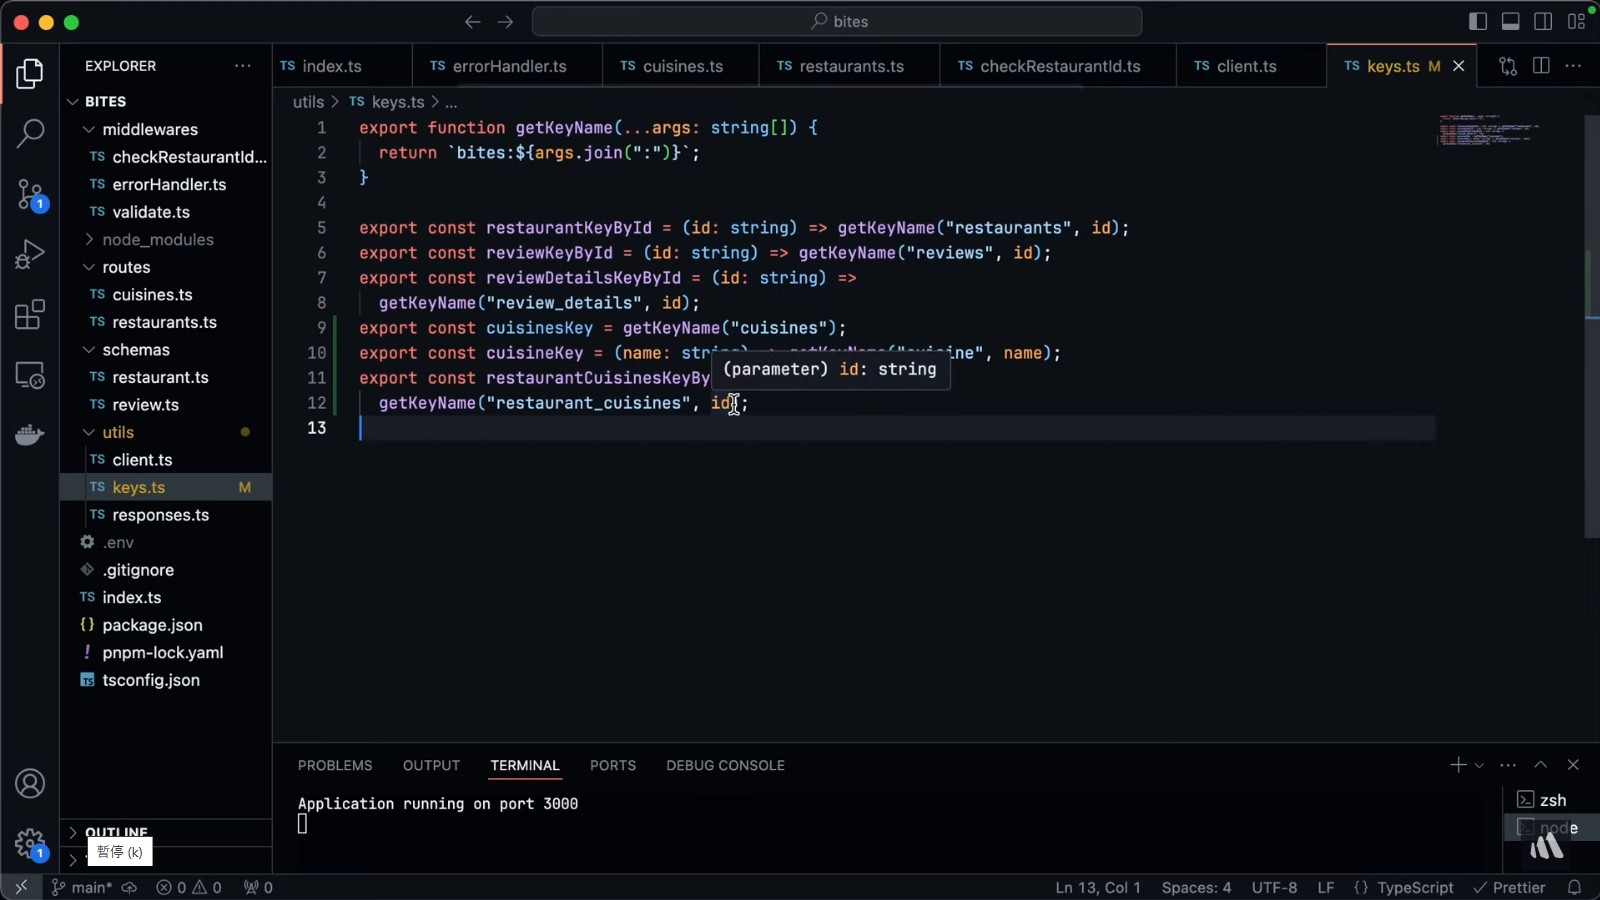
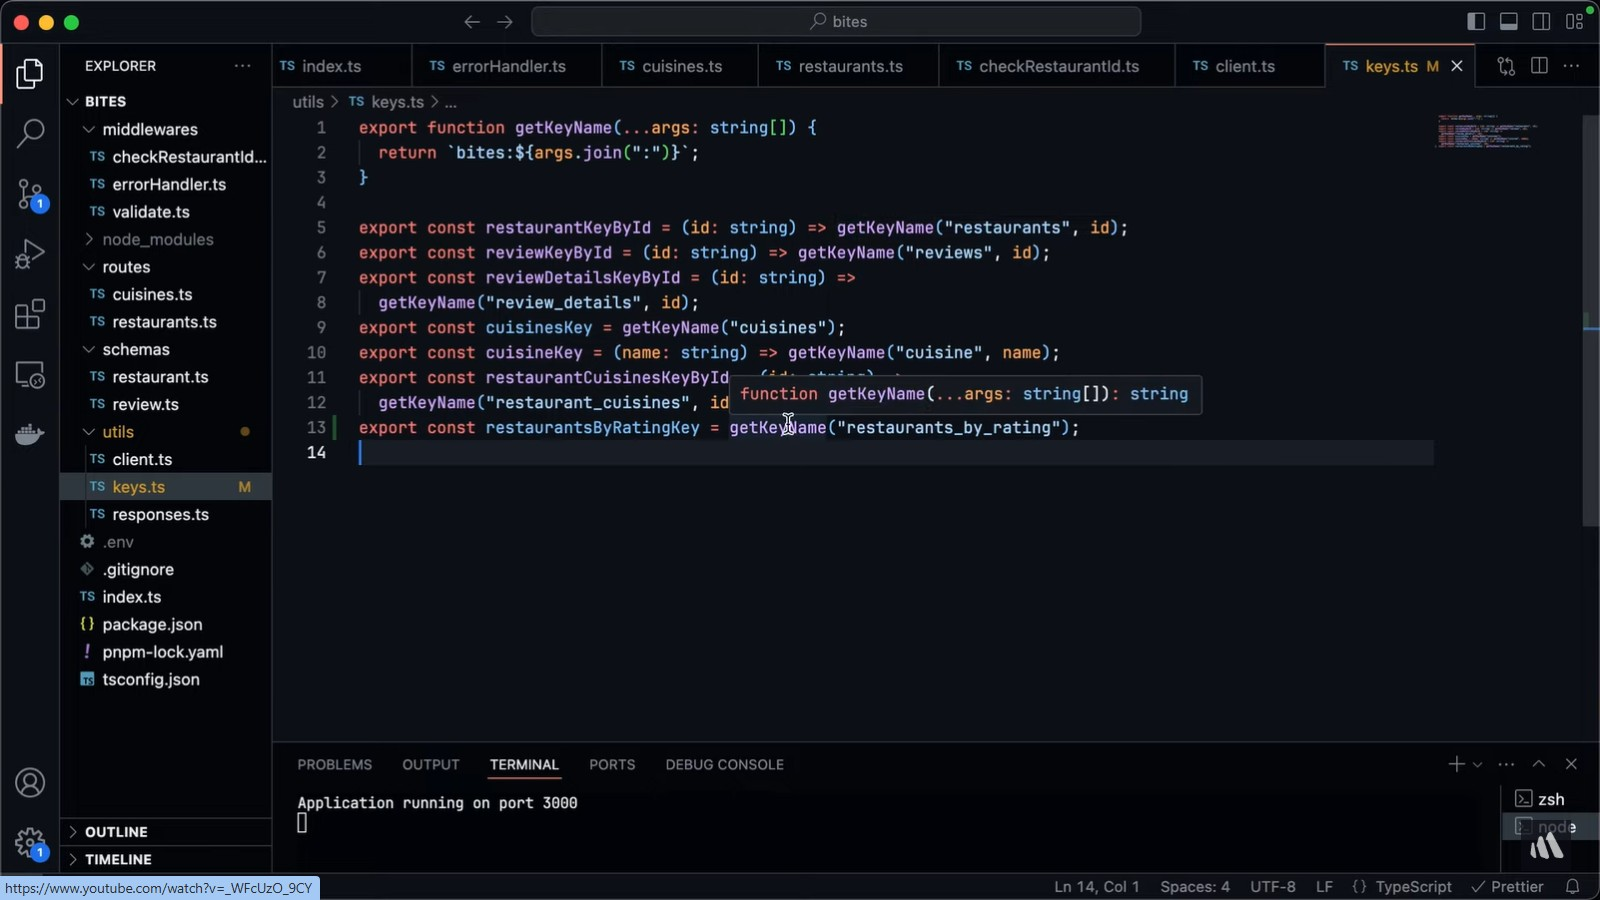
write more

diff --git a/src/ftsRedisSample.js b/src/ftsRedisSample.js
@@ -1,10 +1,11 @@
 import { redis } from './redis/redis.js'
+import { getIndexName, findDocuments, countDocuments } from './redisHelper.js'
 
 /*
    main
 */
 await redis.connect()
-const indexName = 'fts:chinese:index';
+const indexName = getIndexName()
 const query = '@textChi:夏天'; // Custom query
 /*
    Interface one 
@@ -55,97 +56,13 @@ for (let i = 1; i < secondSearchResults.length; i += 3) {
 /*
    Testing 
 */
-const count = await countDocuments(indexName, query)
+const count = await countDocuments(query)
 console.log('count = ', count)
 
-const docs = await findDocuments(indexName, query)
+const docs = await findDocuments(query)
 console.log('docs =', docs)
 
 await redis.close()
-
-/* 
-   Helpers 
-*/
-async function findDocuments(indexName, query, limit = 5) {
-   // Find documents 
-   const redisCommand = `FT.SEARCH ${indexName} ${query} WITHSCORES RETURN 2 textChi id LIMIT 0 ${limit}`
-   const searchResults = await redis.sendCommand(redisCommand.split(' '));
-   const docs = twist(searchResults)
-
-   // Update `visited` field
-   const promises = [];    // Collect promises 
-   docs.forEach(doc => { 
-         const now = new Date(); 
-         const isoDate = now.toISOString();   
-         promises.push((redis.hIncrBy(`fts:chinese:document:${doc.id}`, 'visited', 1)))
-         promises.push(redis.hSet(`fts:chinese:document:${doc.id}`, 'updatedAt', isoDate))
-         promises.push((redis.hIncrBy(`fts:chinese:document:${doc.id}`, 'updateIdent', 1)))
-       })
-   await Promise.all(promises); // Resolve all at once
-   
-   return docs
-}
-
-async function countDocuments(indexName, query) { 
-   // Count documents 
-   // { total: 5, documents: [] }
-   const { total } = await redis.ft.search(indexName, query, {
-      NOCONTENT: true,
-      LIMIT: {
-         from: 0, // Offset
-         size: 0  // Number of results to return
-      }
-  }); 
-
-  return total
-}
-
-/* 
-   “Even the straightest road has its twist.”
-   [
-      5,
-      'fts:chinese:document:31',
-      '14',
-      [ 'textChi', '夏天的海灘充滿歡笑與快樂', 'id', '31' ],
-      'fts:chinese:document:88',
-      '14',
-      [ 'textChi', '夏天的冰淇淋讓人感到無比清涼', 'id', '88' ],
-      'fts:chinese:document:67',
-      '14',
-      [ 'textChi', '夏天的微風讓人感覺舒適', 'id', '67' ],
-      'fts:chinese:document:246',
-      '14',
-      [ 'textChi', '夏天的海灘充滿活力', 'id', '246' ],
-      'fts:chinese:document:392',
-      '7',
-      [ 'textChi', '夏天的微風帶來涼爽的感受', 'id', '392' ]
-   ]
-  
-   [
-      { textChi: '夏天的海灘充滿歡笑與快樂', id: '31', score: '14' },
-      { textChi: '夏天的冰淇淋讓人感到無比清涼', id: '88', score: '14' },
-      { textChi: '夏天的微風讓人感覺舒適', id: '67', score: '14' },
-      { textChi: '夏天的海灘充滿活力', id: '246', score: '14' },
-      { textChi: '夏天的微風帶來涼爽的感受', id: '392', score: '7' }
-   ]
-*/   
-function twist(inputArray) {
-   let outputArray = []
-   let obj = {}
-   
-   for (let i = 1; i < inputArray.length; i += 3) {
-      const values = inputArray[i + 2]
-      for (let j=0; j < values.length; j +=2) {
-         obj[values[j]] = values[j+1]
-      }
-      obj.score = inputArray[i+1]
-
-      outputArray.push(obj)
-      obj = {}
-   }
-
-   return outputArray
-}
 
 /*
 FT.CREATE fts:chinese:index 
@@ -163,6 +80,25 @@ FT.SEARCH fts:chinese:index "@textChi:夏天" NOCONTENT
 
 findDocuments: 
 FT.SEARCH fts:chinese:index "@textChi:夏天" WITHSCORES RETURN 2 textChi id LIMIT 0 100
+
+FT.SEARCH fts:chinese:index "@textChi:知識" WITHSCORES RETURN 2 textChi id LIMIT 0 100
+
+FT.SEARCH fts:chinese:index "@textChi:夏天" WITHSCORES NOCONTENT
+FT.SEARCH fts:chinese:index "@textChi:知識" WITHSCORES NOCONTENT
+
+SELECT textChi, MATCH(textChiSeg) AGAINST('夏天') AS score, id
+FROM documents
+HAVING score > 0
+ORDER BY score DESC
+LIMIT 100 OFFSET 0;
+
+SELECT textChi, MATCH(textChiSeg) AGAINST('知識') AS score, id
+FROM documents
+HAVING score > 0
+ORDER BY score DESC
+LIMIT 100 OFFSET 0;
+
+
 
 countDocuments: 
 FT.SEARCH fts:chinese:index "@textChi:夏天" NOCONTENT

diff --git a/src/redisHelper.js b/src/redisHelper.js
@@ -3,16 +3,34 @@
 */
 import { redis } from './redis/redis.js '
 
-export function getDocumentKey(id) {
-    return 'fts:chinese:documents:${id}'
-}
-
 export function getIndexName() {
-    return 'fts:chinese:index';
+   return 'fts:chinese:index';
 }
 
-export async function findDocuments(indexName, query, limit = 5) {
-    //await redis.connect()
+export function getDocumentKeyName(id) {
+    return `fts:chinese:documents:${id}`
+}
+
+export async function checkIndex() {
+   const redisCommand = `FT.INFO ${getIndexName()}`
+   
+   try {      
+      await redis.sendCommand(redisCommand.split(' '))
+      return true;
+   } catch (err) {
+      // "Unknown Index name"
+      return false; 
+   } 
+}
+
+export async function createIndex() {
+   const redisCommand = `FT.CREATE ${getIndexName()} ON HASH PREFIX 1 ${getDocumentKeyName('')} LANGUAGE chinese SCHEMA id NUMERIC SORTABLE textChi TEXT WEIGHT 1.0 SORTABLE visited NUMERIC SORTABLE createdAt TAG SORTABLE updatedAt TAG SORTABLE updateIdent NUMERIC SORTABLE`
+
+   return await redis.sendCommand(redisCommand.split(' '))
+}
+
+export async function findDocuments(query, limit = 5) {
+    const indexName = getIndexName()
 
     // Find documents 
     const redisCommand = `FT.SEARCH ${indexName} ${query} WITHSCORES RETURN 2 textChi id LIMIT 0 ${limit}`
@@ -33,8 +51,8 @@ export async function findDocuments(indexName, query, limit = 5) {
     return docs
  }
  
- export async function countDocuments(indexName, query) { 
-    //await redis.connect()
+ export async function countDocuments(query) { 
+   const indexName = getIndexName()
 
     // Count documents 
     // { total: 5, documents: [] }

diff --git a/src/seedRedis.js b/src/seedRedis.js
@@ -1,4 +1,5 @@
 import { redis } from './redis/redis.js'
+import { getIndexName, getDocumentKeyName, checkIndex, createIndex } from './redisHelper.js'
 import { documents } from '../data/documents.js'
 
 await redis.connect()
@@ -10,12 +11,19 @@ await redis.connect()
 /*
    main 
 */
+if ( await checkIndex() ) {
+    console.log(`Found index ${getIndexName()}, skip creation...`)
+} else {
+    console.log(`Creating index ${getIndexName()}...`)
+    console.log(await createIndex()) 
+}
+
 let promises = [];
 for (let i = 0; i < documents.length; i++) {
     const now = new Date(); 
     const isoDate = now.toISOString(); 
     
-    promises.push(redis.hSet(`fts:chinese:document:${i + 1}`, {
+    promises.push(redis.hSet(getDocumentKeyName(i + 1), {
         id: i + 1, 
         textChi: documents[i],        
         visited:   0, 
@@ -25,7 +33,7 @@ for (let i = 0; i < documents.length; i++) {
     } ) )
 }
 await Promise.all(promises)
-console.log('Done!')
+console.log('Seeding finished!')
 
 await redis.close()
 /*

diff --git a/README.4.md b/README.4.md
@@ -16,6 +16,29 @@ To consummate our story of Fulltext Search, we pull in our old friend... Redis i
 > When adding Chinese language documents, set LANGUAGE chinese for the indexer to properly tokenize the terms. If you use the default language, then search terms are extracted based on punctuation characters and whitespace. The Chinese language tokenizer makes use of a segmentation algorithm (via [Friso](https://github.com/lionsoul2014/friso)), which segments text and checks it against a predefined dictionary. See [Stemming](https://redis.io/docs/latest/develop/interact/search-and-query/advanced-concepts/stemming/) for more information.
 
 
+
+
+#### I. FT.CREATE (TL;DR)
+
+#### II. FT.SEARCH (TL;DR)
+
+#### III. Dual interfaces 
+
+#### IV. Seeding 
+
+#### V. Querying 
+
+#### VI. Bonus 
+1. List of articles 
+2. Box of Pandora
+
+#### VII. Bibliograhy 
+
+[Modern Redis Crash Course: Backend with Express, TypeScript and Zod]()
+
+“Even the straightest road has its twist.”
+
+
 #### I. [FT.CREATE](https://redis.io/docs/latest/commands/ft.create/), [FT.SEARCH](https://redis.io/docs/latest/commands/ft.search/) and [FT.AGGREGATE](https://redis.io/docs/latest/commands/ft.aggregate/) (TL;DR)
 
 
